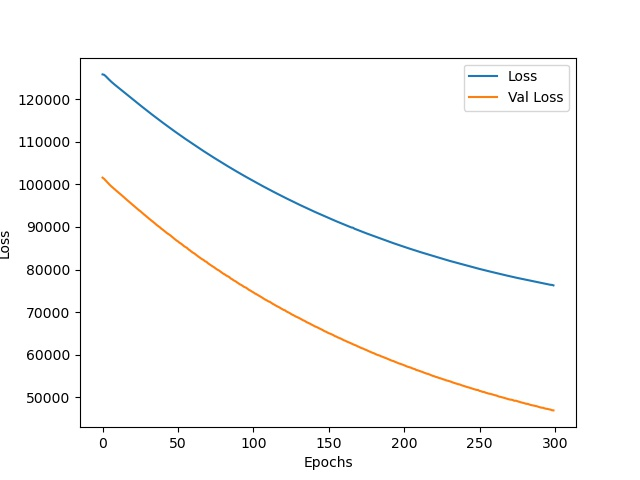
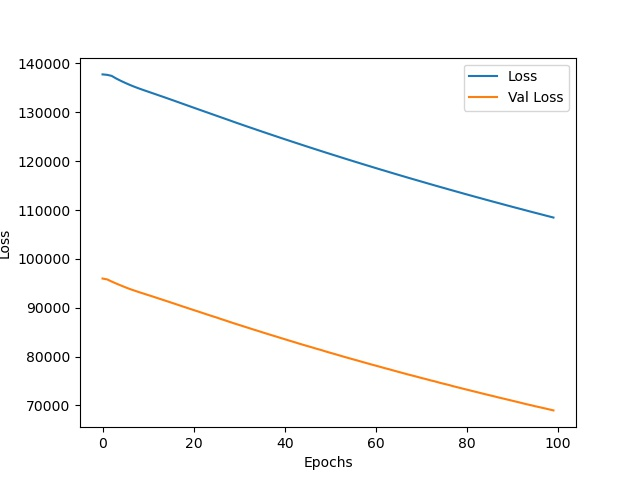
Update

diff --git a/prediction_for_lily_price_and_volume/test.py b/prediction_for_lily_price_and_volume/test.py
@@ -24,32 +24,31 @@ start = datetime.datetime(2019, 12,31)
 end = datetime.datetime(2020, 12,31)
 interval = (end - start).days
 
-path_lastyear_year = r'D:\dataset\lilium_price\val_x\100-108all.csv'    #前一年的訓練資料
-path_weight = r'./weights/epoch10-loss21766.4505-val_loss47524.7106-mae84.46.pth' #權重
-sub_path = './results/test_flower_price.csv'    #submit格式
-path_result_csv = './results/109_result.csv'
-flower_name = ['FS443', 'FS479', 'FS592', 'FS609', 'FS639', 'FS779', 'FS859', 'FS879', 'FS899', 'FS929']    # 需與訓練時的處理順序相同
+path_lastyear_year = r'D:\dataset\lilium_price\val_x\FS443.csv'    #前一年的訓練資料
+path_weight = r'./weights/FS443/epoch100-loss108457.9141-val_loss68985.5859-mae194.00.pth' #權重
+# sub_path = './results/test_flower_price.csv'    #submit格式
+path_result_csv = './results/FS443_result.csv'
+# flower_name = ['FS443', 'FS479', 'FS592', 'FS609', 'FS639', 'FS779', 'FS859', 'FS879', 'FS899', 'FS929']    # 需與訓練時的處理順序相同
 cloumn = [ 'price_high', 'price_mid', 'price_avg', 'volume']    # 需與訓練時的處理順序相同
 
 n = 10  # 取前n天的資料作為特徵
-f = 10  #花的種類數
+# f = 10  #花的種類數
 p = 4   #預測的價格數量
 
 header = ['date']
-for flower in flower_name:
-    for col in cloumn:
-        header.append('%s_%s'%(flower, col))
+for col in cloumn:
+    header.append(col)
 
 test_df = pd.read_csv(path_lastyear_year)[-1:]  # 取去年的最後n天作為今天的初始特徵
 test_x = np.array(test_df)
 
 # # 正歸化
-train_x = pd.read_csv(r'D:\dataset\lilium_price\train_x\105-108all.csv', encoding='utf-8')
+train_x = pd.read_csv(r'D:\dataset\lilium_price\train_x\FS443.csv', encoding='utf-8')
 x_scaler = StandardScaler().fit(train_x)
 test_x = x_scaler.transform(test_x)
 test_x = torch.Tensor(test_x)  # to tensor
 
-model = model.RNN_model(input_dim=n*p*f, output_dim=p*f)
+model = model.RNN_modelv1(input_dim=n*p, output_dim=p)
 model.load_state_dict(torch.load(path_weight))
 model.eval()
 date_list = []
@@ -67,21 +66,21 @@ for i in tqdm(range(interval)):
 output_arr = np.array(output_list)
 result_df = pd.DataFrame(output_arr)
 result_df.insert(0,'date',date_list)
-result_df.to_csv(path_result_csv, float_format='%.2f', header=header)
+result_df.to_csv(path_result_csv, float_format='%.2f', header=header, index=None)
 
 
-# #輸出預測結果
-sub = pd.read_csv(sub_path)
-for index, row in sub.iterrows():
-    date = row['date']
-    flower = row['flower_no']
-    try:
-        x = result_df[result_df.date == date].index
-        y = p*(flower_name.index(flower))
-        sub.iloc[index, 3:7] = result_df.iloc[x, y+1:y+p+1].values[0]
-        # print(sub.iloc[index])
-    except:
-        print(date)
-        break
+# # #輸出預測結果
+# sub = pd.read_csv(sub_path)
+# for index, row in sub.iterrows():
+#     date = row['date']
+#     flower = row['flower_no']
+#     try:
+#         x = result_df[result_df.date == date].index
+#         y = p*(flower_name.index(flower))
+#         sub.iloc[index, 3:7] = result_df.iloc[x, y+1:y+p+1].values[0]
+#         # print(sub.iloc[index])
+#     except:
+#         print(date)
+#         break
     
-sub.to_csv('./results/109_submit.csv', float_format='%.1f', index=None)
+# sub.to_csv('./results/109_submit.csv', float_format='%.1f', index=None)

diff --git a/prediction_for_lily_price_and_volume/train.py b/prediction_for_lily_price_and_volume/train.py
@@ -29,10 +29,10 @@ else:
 n = 10  # 取前n天的資料作為特徵
 
 #載入資料集
-train_x = pd.read_csv(r'D:\dataset\lilium_price\train_x\104-108_879-899all.csv', encoding='utf-8')
-train_y = pd.read_csv(r'D:\dataset\lilium_price\train_y\104-108_879-899all.csv', encoding='utf-8')
-val_x = pd.read_csv(r'D:\dataset\lilium_price\val_x\104-108_879-899all.csv', encoding='utf-8')
-val_y = pd.read_csv(r'D:\dataset\lilium_price\val_y\104-108_879-899all.csv', encoding='utf-8')
+train_x = pd.read_csv(r'D:\dataset\lilium_price\train_x\FS443.csv', encoding='utf-8')
+train_y = pd.read_csv(r'D:\dataset\lilium_price\train_y\FS443.csv', encoding='utf-8')
+val_x = pd.read_csv(r'D:\dataset\lilium_price\val_x\FS443.csv', encoding='utf-8')
+val_y = pd.read_csv(r'D:\dataset\lilium_price\val_y\FS443.csv', encoding='utf-8')
 
 #正規化
 x_scaler = StandardScaler().fit(train_x)
@@ -52,7 +52,7 @@ valset = utils.Setloader(val_x, val_y)
 batch_size = train_x.shape[0]
 val_batch_size = val_x.shape[0]
 LR = 0.01
-num_epochs = 300
+num_epochs = 100
 
 model = model.RNN_modelv1(input_dim=train_x.shape[1], output_dim=train_y.shape[1]).to(device)
 # 選擇優化器與損失函數
